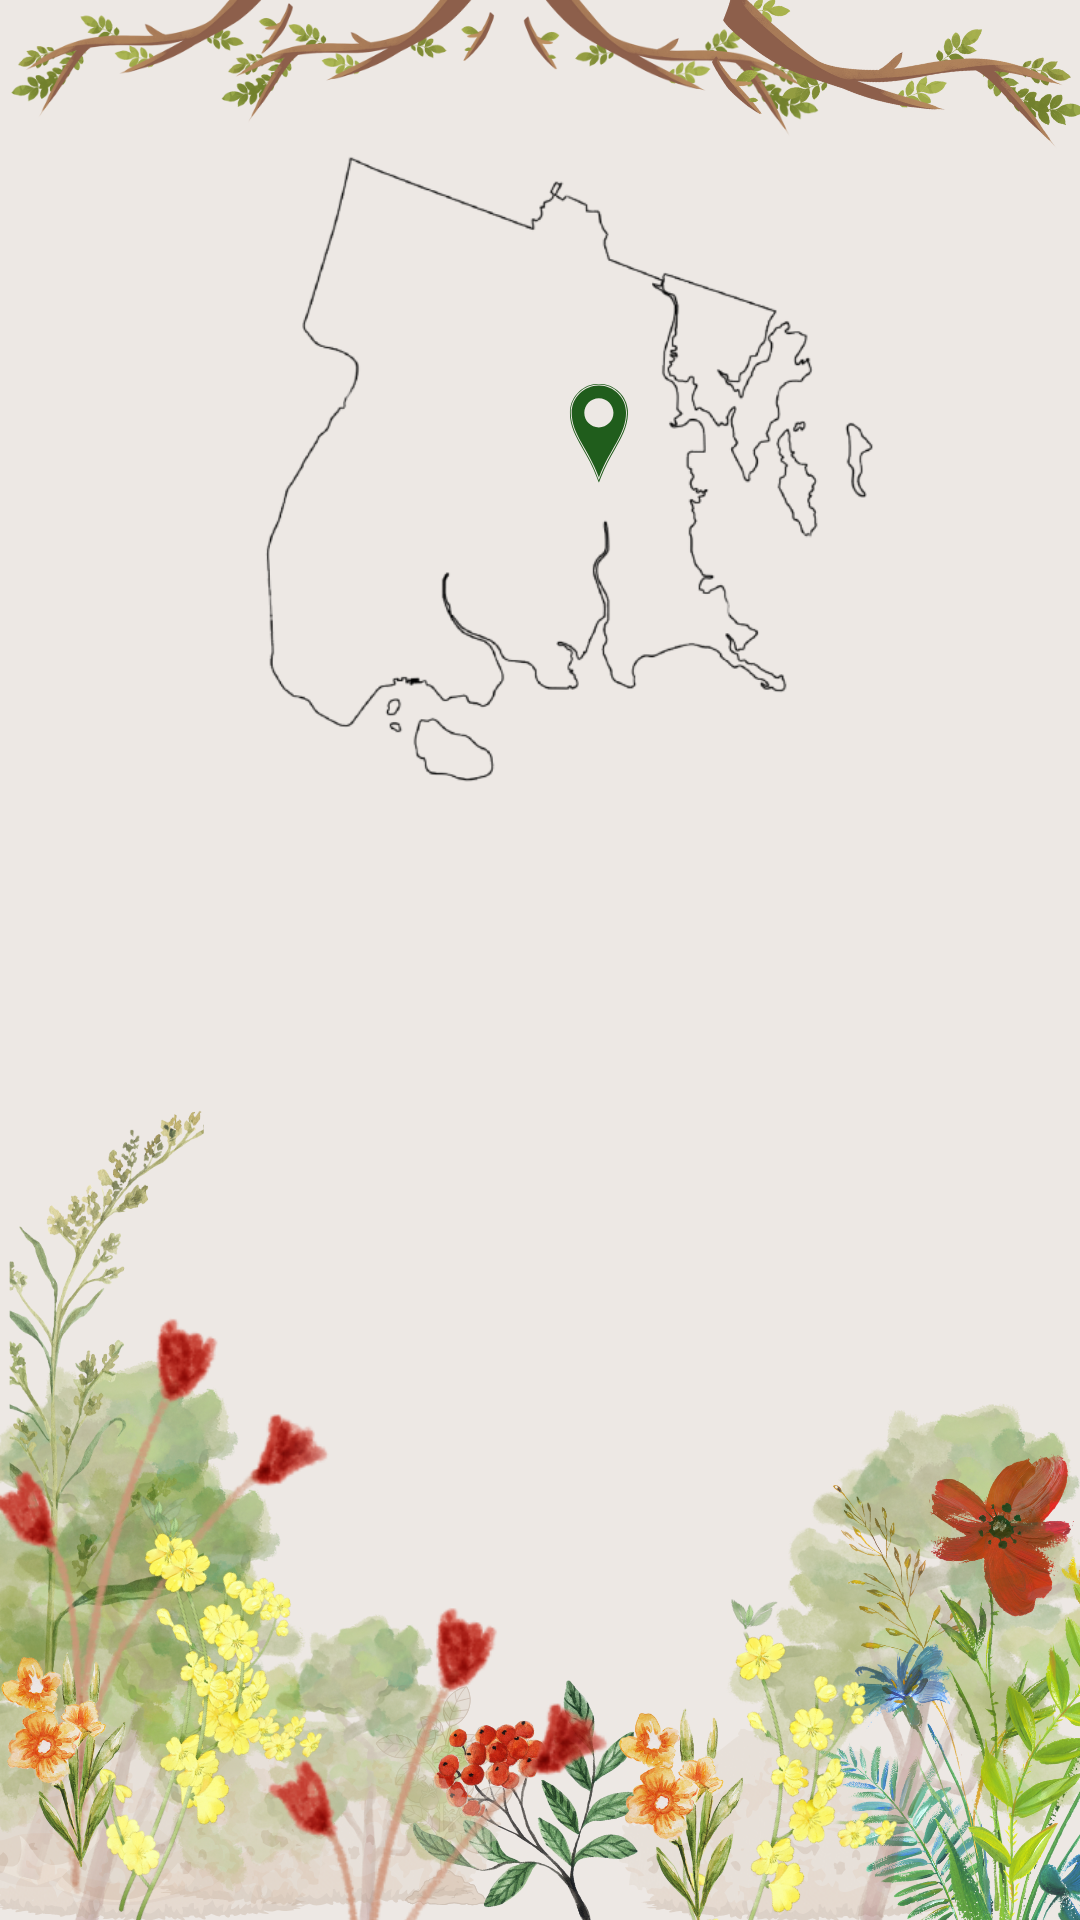
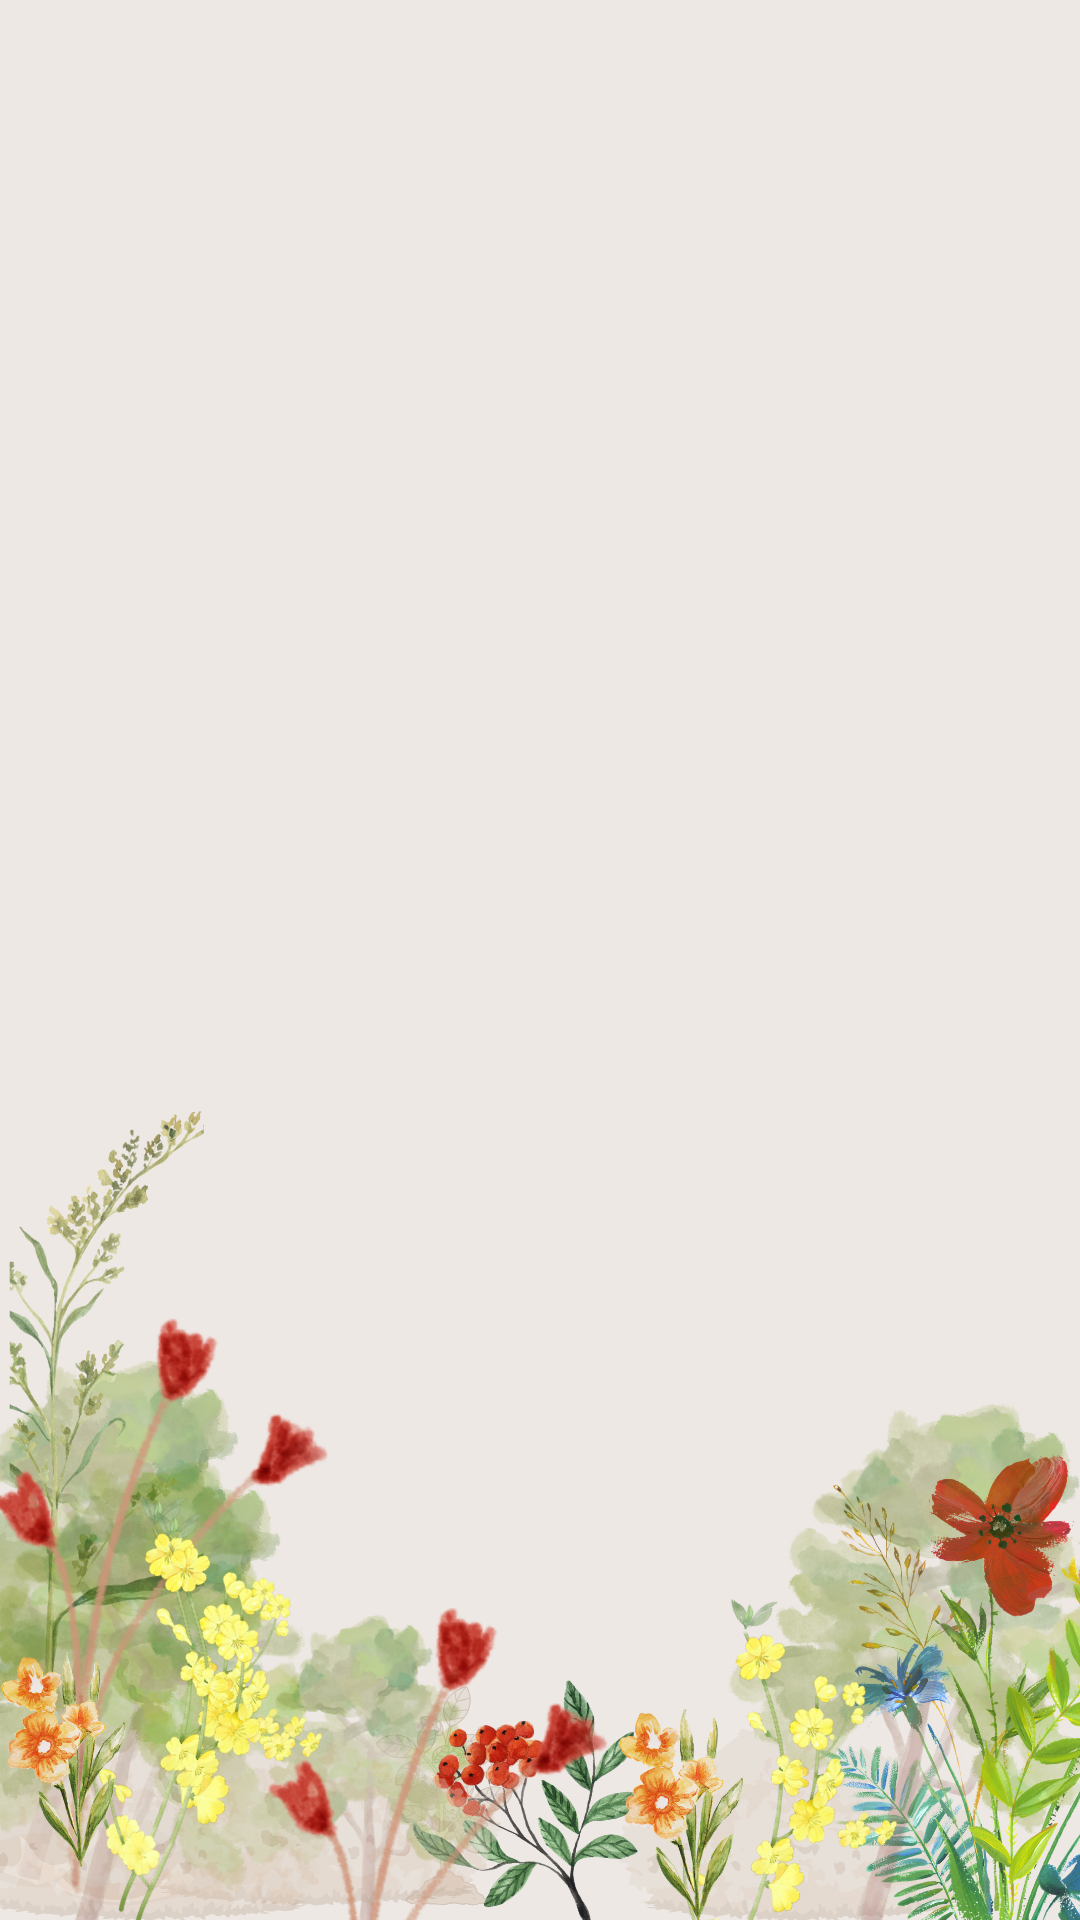
fixes and additions

diff --git a/src/Donate/Donate.tsx b/src/Donate/Donate.tsx
@@ -1,12 +1,57 @@
 export const Donate = () => {
   return (
-    <button
-      onClick={() =>
-        window.open("https://www.buymeacoffee.com/freebird", "_blank")
-      }
-      className="bg-yellow-400 hover:bg-yellow-500 text-black font-bold py-2 px-4 rounded"
-    >
-      Support Me
-    </button>
+    <div className="w-full flex flex-col items-center py-6 px-4 sm:px-6 lg:px-32">
+      <h2 className="text-4xl font-bold mb-8 text-center">Donate</h2>
+      <p className="text-lg text-gray-600 mb-12 text-center">
+        Ujamaa Garden is{" "}
+        <a
+          href="www.openspaceinstitute.org/how/grassroots-efforts"
+          target="_blank"
+          rel="noopener noreferrer"
+          className="text-amber-600 hover:underline"
+        >
+          fiscally sponsored
+        </a>{" "}
+        by the
+        <a
+          href="www.openspaceinstitute.org"
+          className=""
+          target="_blank"
+          rel="noopener noreferrer"
+        >
+          {" "}
+          Open Space Institute, Inc. (OSI){" "}
+        </a>{" "}
+        , as part of its{" "}
+        <a
+          href="www.openspaceinstitute.org/how/grassroots-efforts/citizen-action"
+          target="_blank"
+          rel="noopener noreferrer"
+          className="text-amber-600 hover:underline"
+        >
+          {" "}
+          Citizen Action program.
+        </a>{" "}
+        <br />
+        All
+        <a
+          href="www.openspaceinstitute.org/donate/donate-citizen-action-groups"
+          target="_blank"
+          rel="noopener noreferrer"
+          className="text-amber-600 hover:underline"
+        >
+          {" "}
+          contributions{" "}
+        </a>{" "}
+        will be accepted by OSI on behalf of Ujamaa Garden.
+      </p>
+      <a
+        href="https://www.openspaceinstitute.org/donate/donate-citizen-action-groups"
+        target="_blank"
+        className="text-amber-600 hover:underline text-lg font-semibold"
+      >
+        Donate here.
+      </a>
+    </div>
   );
 };

diff --git a/src/Home/TitleText.tsx b/src/Home/TitleText.tsx
@@ -1,6 +1,6 @@
 export const TitleText = () => {
   return (
-    <div className="w-full pt-80 sm:pt-[130px] flex-1 relative flex flex-col items-center">
+    <div className="w-full  sm:pt-[10px] md:pt-[10px] lg:pt-[10px] flex-1 relative flex flex-col items-center">
       <h1
         className="
           block
@@ -8,8 +8,7 @@ export const TitleText = () => {
           mx-auto
           text-[55px]
           sm:text-[120px]
-          md:text-[180px]
-          lg:text-[100px]
+          lg:text-[90px]
           font-cursive font-extrabold text-transparent
           bg-clip-text bg-cover bg-center
           [-webkit-text-stroke:2px_#000]
@@ -20,9 +19,8 @@ export const TitleText = () => {
         UJAMAA GARDEN
       </h1>
 
-      <br />
-
-      <span className="text-xl w-2/3 text-center text-black z-10 px-4">
+      <span className="mt-2 text-base md:text-xl w-full md:w-2/3 text-center text-black z-10 px-6 md:px-12 font-semibold">
+        {" "}
         A youth-centered and experimental learning space, resting ground, and
         community garden located in the Northeast Bronx.
       </span>

diff --git a/src/App.tsx b/src/App.tsx
@@ -10,6 +10,8 @@ import { MomProgram } from "./Programs/Programs/MomProgram";
 import { Restoration } from "./Programs/Programs/Restoration";
 import { YouthEducation } from "./Programs/Programs/YouthEducation";
 import { ContactUs } from "./ContactUs/ContactUs";
+import { OurTeam } from "./OurTeam/OurTeam";
+import { Donate } from "./Donate/Donate";
 
 function App() {
   return (
@@ -19,7 +21,8 @@ function App() {
         <Routes>
           <Route path="/" element={<Home />} />
           <Route path="/about" element={<AboutUs />} />
-          {/* <Route path="/donate" element={<Donate />} /> */}
+          <Route path="/our-team" element={<OurTeam />} />
+          <Route path="/donate" element={<Donate />} />
           <Route path="/images" element={<ImageGallery />} />
           <Route path="/events" element={<Events />} />
           <Route path="/programs" element={<Programs />} />

diff --git a/src/Events/Events.tsx b/src/Events/Events.tsx
@@ -14,6 +14,22 @@ export const Events = () => {
   return (
     <div className="w-full flex flex-col items-center py-10 px-4 overflow-x-hidden">
       <h2 className="text-4xl font-bold mb-8 text-center">Events</h2>
+      <div className="w-full md:w-1/3 max-w-2xl">
+        {" "}
+        <h3 className="text-lg text-gray-600 mb-12 text-center">
+          Ujamaa Garden will be hosting <br />
+          Volunteer Days with Bronx Green-Up on the first Saturday of every
+          month starting in March, from 10:00am - 1:00pm. All are welcome to
+          attend.
+          <a
+            href="https://ujamaagarden.com/contact-us"
+            className="text-amber-600 hover:underline"
+          >
+            {" "}
+            Please reach out with any questions.
+          </a>
+        </h3>
+      </div>
       <Timeline items={events} />
     </div>
   );

diff --git a/src/OurTeam/OurTeam.tsx b/src/OurTeam/OurTeam.tsx
@@ -1,0 +1,15 @@
+export const OurTeam = () => {
+  return (
+    <div className="w-full flex flex-col items-center py-6 px-8 sm:px-6">
+      <h2 className="text-4xl font-bold mb-8 text-center">Our Team</h2>
+      <p className="text-lg text-gray-600 mb-12 text-center">
+        Ujamaa Garden was co-founded and is currently co-stewarded by a vibrant
+        team of young people from the North Bronx. <br /> We bring diverse
+        skills, perspectives, and values as a coalition of organizers, artists,
+        and educators. <br />
+        Ujamaa Garden receives council and guidance from elders in the local
+        community and experts in food access and land stewardship.
+      </p>
+    </div>
+  );
+};

diff --git a/src/NavBar/NavBar.tsx b/src/NavBar/NavBar.tsx
@@ -7,12 +7,13 @@ export const NavBar = () => {
 
   const MenuItems = [
     { name: "About Us", path: "about" },
+    { name: "Our Team", path: "our-team" },
     { name: "Events", path: "events" },
     { name: "Programs", path: "programs" },
     { name: "Images", path: "images" },
     { name: "Contact Us", path: "contact-us" },
     // { name: "Growing Season", path: "growing" },
-    // { name: "Donate", path: "donate" },
+    { name: "Donate", path: "donate" },
   ];
 
   const handleMenuClick = (open: boolean, newpath: string) => {

diff --git a/src/AbousUs/AboutUs.tsx b/src/AbousUs/AboutUs.tsx
@@ -185,8 +185,7 @@ export const AboutUs = () => {
                   Food sovereignty is the foundation of liberatory world-making.
                 </li>
                 <li className="list-disc">
-                  It is important to center our youth’s dreams, knowledge, and
-                  ideas.
+                  We center our youth’s dreams, knowledge, and ideas
                 </li>
                 <li className="list-disc">
                   Awareness and care for the earth and earth systems are

diff --git a/src/Home/Home.tsx b/src/Home/Home.tsx
@@ -7,9 +7,16 @@ export const Home = () => {
         w-full h-screen flex flex-col items-center
         bg-[url('/ujamaa-bg-mobile.png')]
         bg-cover bg-center
-        md:bg-[url('/ujamaa-bg.png')]
+        md:bg-[url('/ujamaa-bg-nomap.png')]
       "
     >
+      {/* Small decorative map image */}
+      <img
+        src="ujamaa-map.png"
+        alt="UJAMAA GARDEN MAP"
+        className="  pt-15  w-3/4 sm:pt-12 md:w-1/2 lg:w-1/5 h-auto object-contain"
+      />
+
       <TitleText />
     </div>
   );

diff --git a/src/ContactUs/ContactUs.tsx b/src/ContactUs/ContactUs.tsx
@@ -34,8 +34,8 @@ export const ContactUs = () => {
 
   return (
     <div className="w-full flex items-center py-4">
-<div
-  className="
+      <div
+        className="
     mx-auto
     w-full
     px-4
